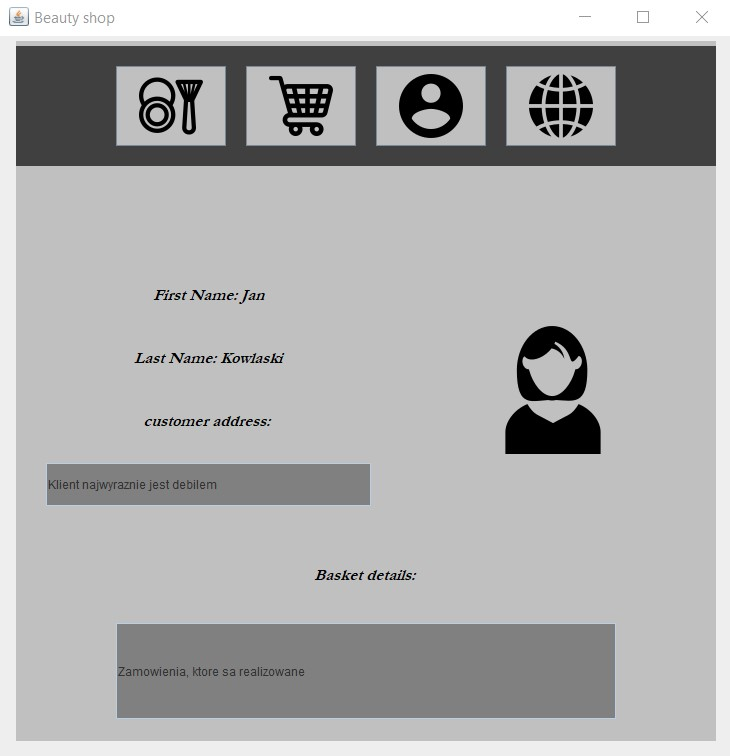
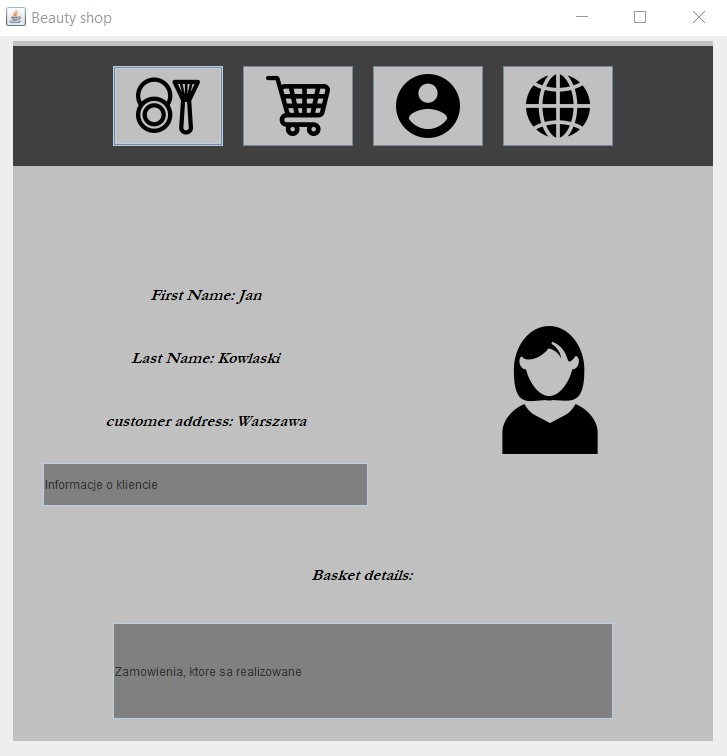
new account in database

diff --git a/src/com/PJ/GUI/CustomerPanel.java b/src/com/PJ/GUI/CustomerPanel.java
@@ -20,7 +20,7 @@ public class CustomerPanel extends JPanel implements MainFrameShop,ActionListene
     private String firtsName = "Jan";
     private String lastName = "Kowaliski";
     private String orderString = "Zamowienia, ktore sa realizowane";
-    private String informationAccount = "Klient najwyraznie jest debilem";
+    private String informationAccount = "Informacje o kliencie";
 
     private JLabel labelName;
     private JLabel labelLastName;
@@ -104,7 +104,7 @@ public class CustomerPanel extends JPanel implements MainFrameShop,ActionListene
         labelLastName.setVerticalAlignment(SwingConstants.CENTER);
         labelLastName.setForeground(Color.black);
 
-        labelInformations = new JLabel("customer address: ");
+        labelInformations = new JLabel("customer address: Warszawa" );
         labelInformations.setFont(myFonttwo);
         labelInformations.setHorizontalAlignment(SwingConstants.CENTER);
         labelInformations.setVerticalAlignment(SwingConstants.CENTER);
